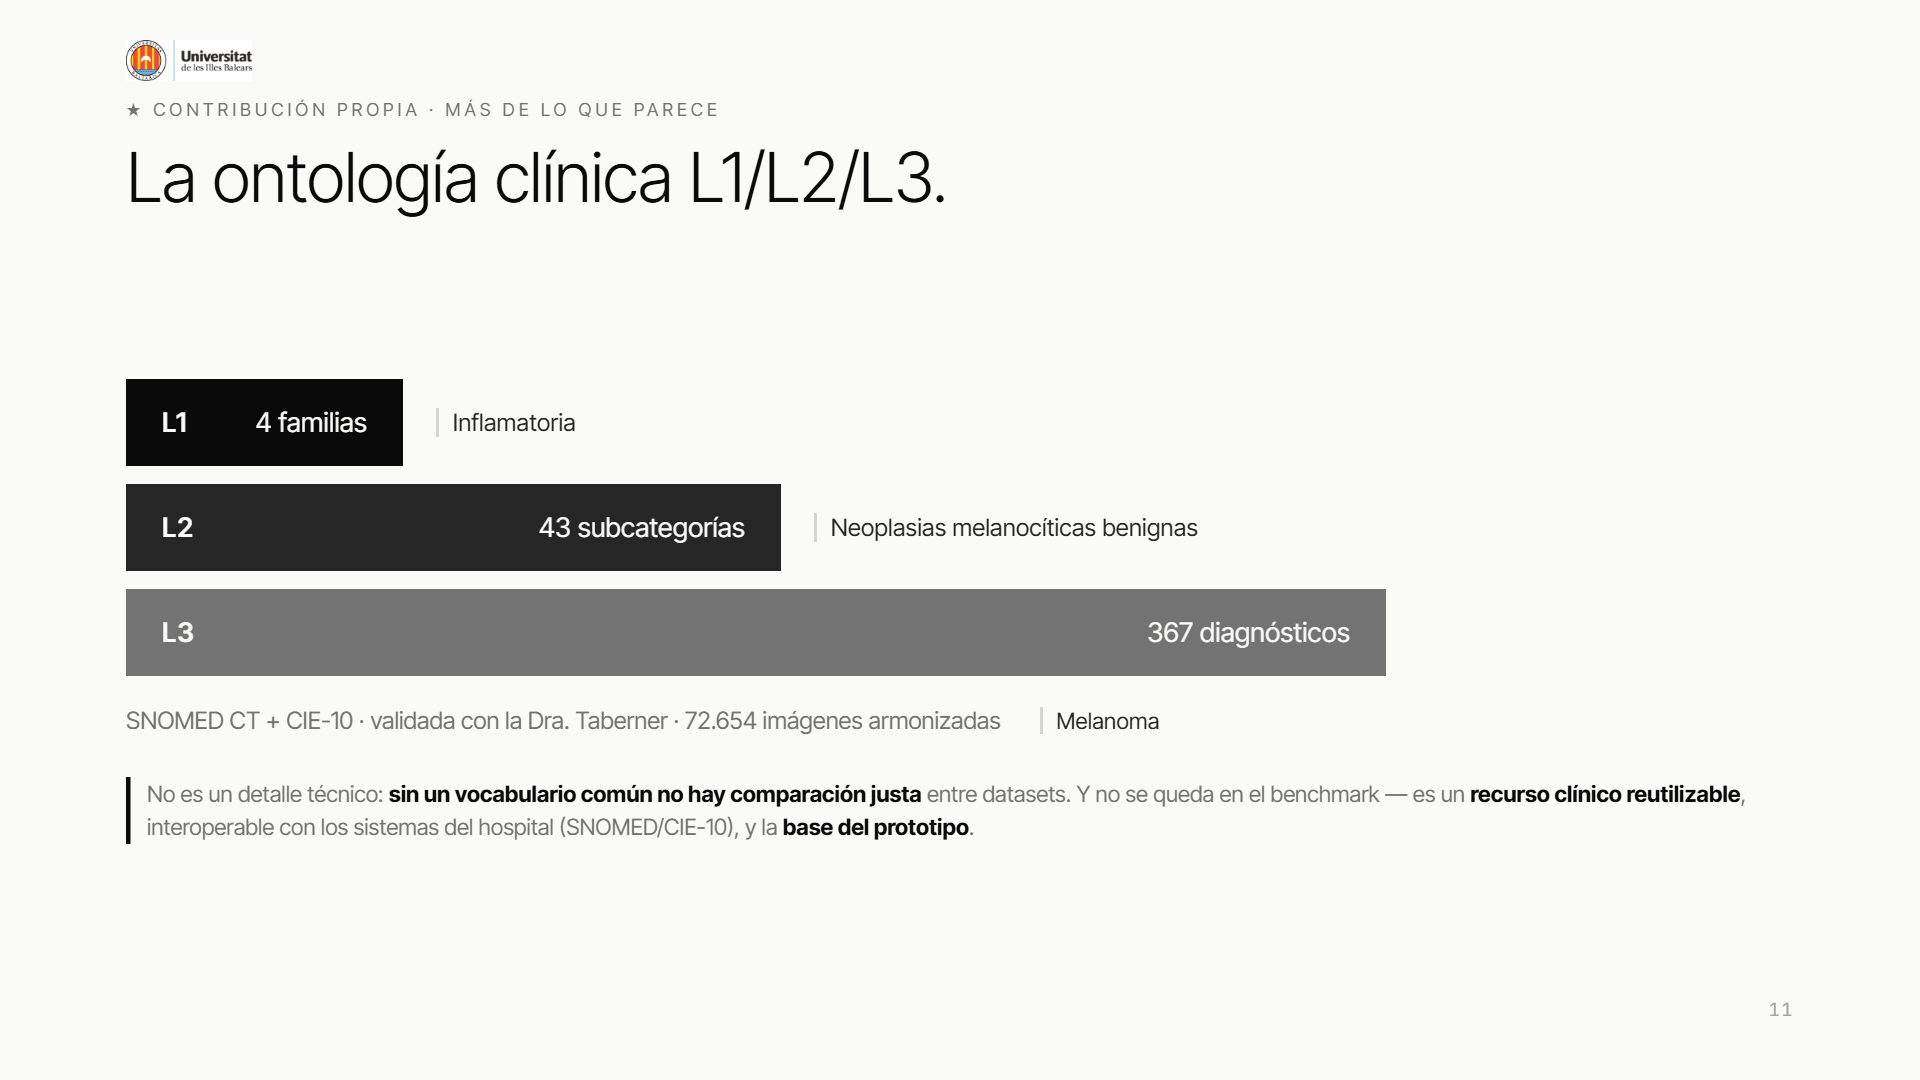
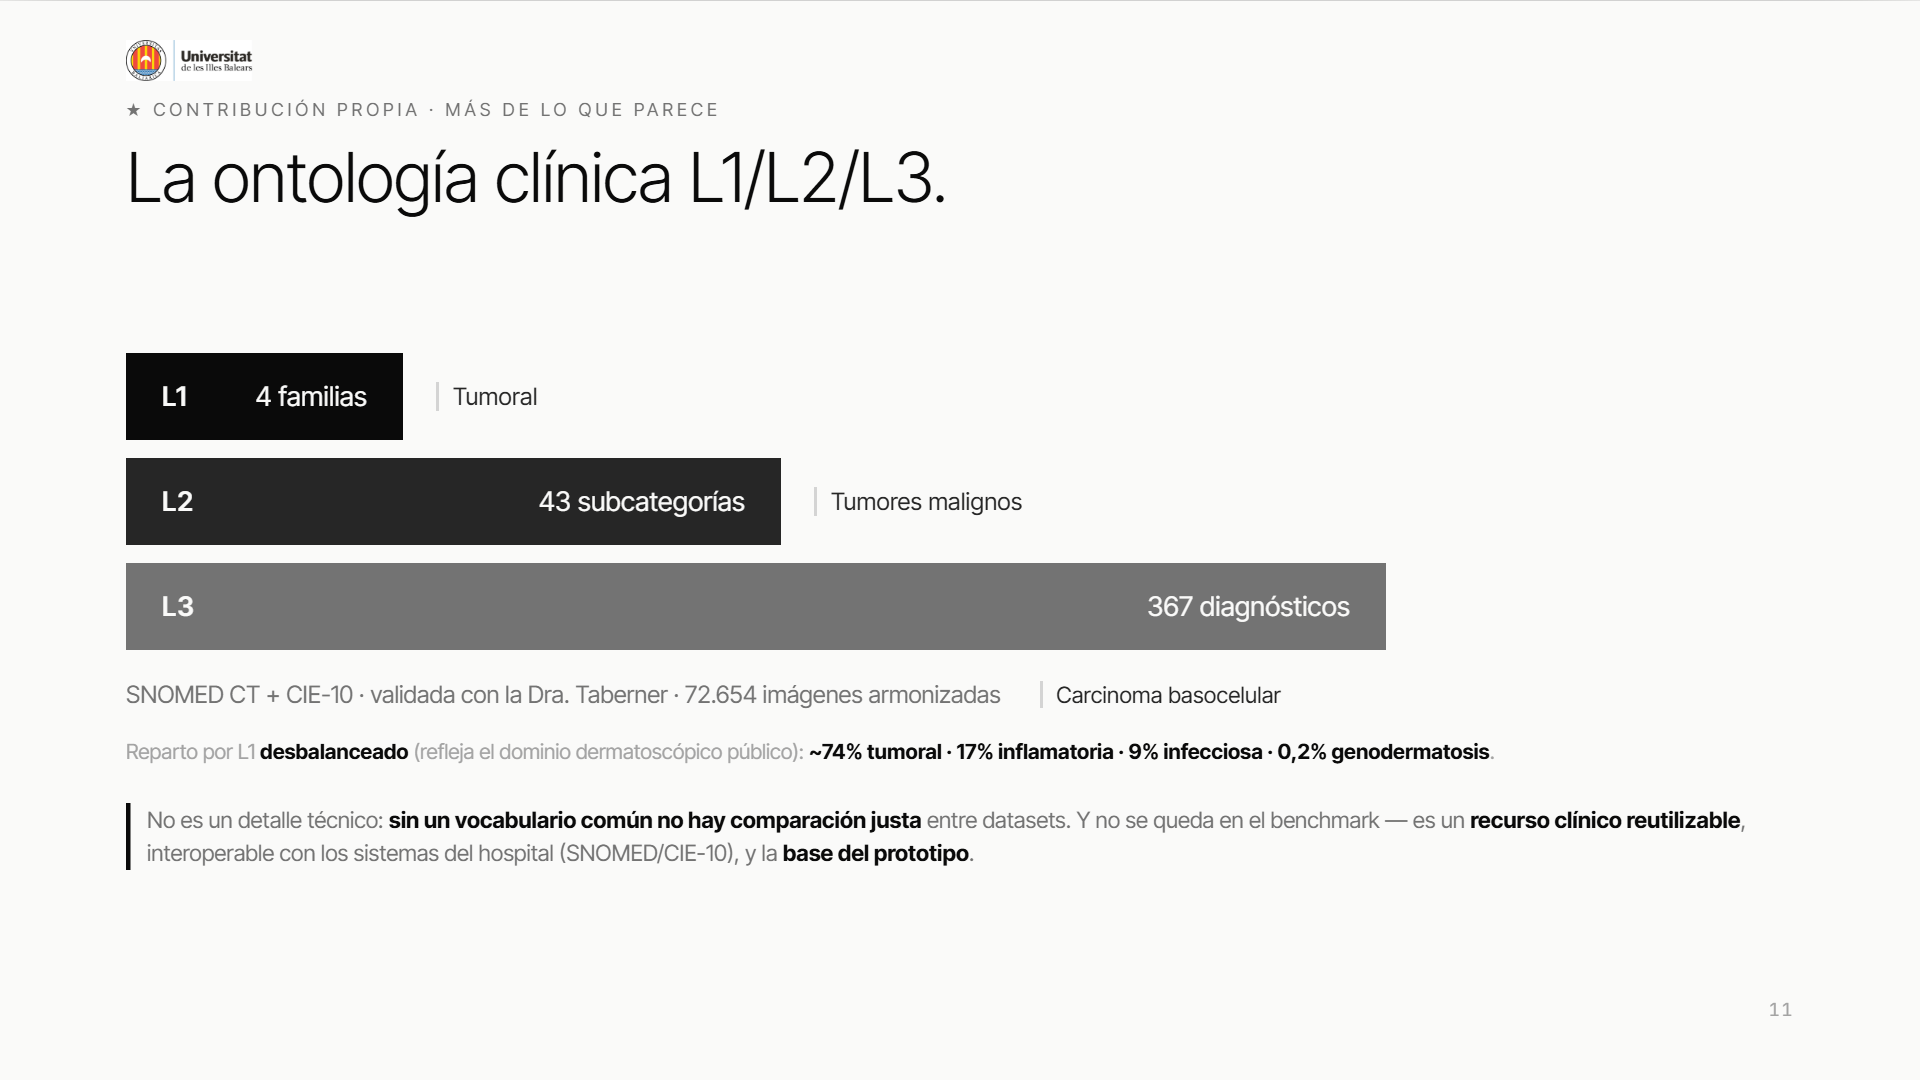
deck slide11: anade reparto por L1 del corpus armonizado (~74% tumoral/17% inflam/9% infecc/0,2% genoderm, desbalanceado)

Changed region(s): [[0.0625, 0.3056, 0.7812, 0.7028], [0.0625, 0.7333, 0.9062, 0.7944]]

diff --git a/deck/index.html b/deck/index.html
@@ -493,7 +493,8 @@
         <div class="muted" style="font-size:16px">SNOMED CT + CIE-10 · validada con la Dra. Taberner · 72.654 imágenes armonizadas</div>
         <div class="cycler pc" data-items="Melanoma|Carcinoma basocelular|Nevo melanocítico|Queratosis seborreica|Psoriasis|Dermatitis atópica|Verruga vírica|Carcinoma escamoso|Dermatofibroma|Léntigo maligno|Rosácea|Liquen plano|Molusco contagioso|Tiña corporal" style="margin-top:0; font-size:15px; flex:0 0 auto">Melanoma</div>
       </div>
-      <div class="muted" style="margin-top:8px; font-size:15px; line-height:1.5; box-shadow:inset 3px 0 0 var(--ink); padding-left:14px; max-width:none">No es un detalle técnico: <b style="color:var(--ink)">sin un vocabulario común no hay comparación justa</b> entre datasets. Y no se queda en el benchmark — es un <b style="color:var(--ink)">recurso clínico reutilizable</b>, interoperable con los sistemas del hospital (SNOMED/CIE-10), y la <b style="color:var(--ink)">base del prototipo</b>.</div>
+      <div class="muted" style="font-size:14px; color:var(--ink400)">Reparto por L1 <b style="color:var(--ink)">desbalanceado</b> (refleja el dominio dermatoscópico público): <b style="color:var(--ink)">~74% tumoral · 17% inflamatoria · 9% infecciosa · 0,2% genodermatosis</b>.</div>
+      <div class="muted" style="margin-top:6px; font-size:15px; line-height:1.5; box-shadow:inset 3px 0 0 var(--ink); padding-left:14px; max-width:none">No es un detalle técnico: <b style="color:var(--ink)">sin un vocabulario común no hay comparación justa</b> entre datasets. Y no se queda en el benchmark — es un <b style="color:var(--ink)">recurso clínico reutilizable</b>, interoperable con los sistemas del hospital (SNOMED/CIE-10), y la <b style="color:var(--ink)">base del prototipo</b>.</div>
     </div>
     <div class="pageno mono">11</div>
   </section>
